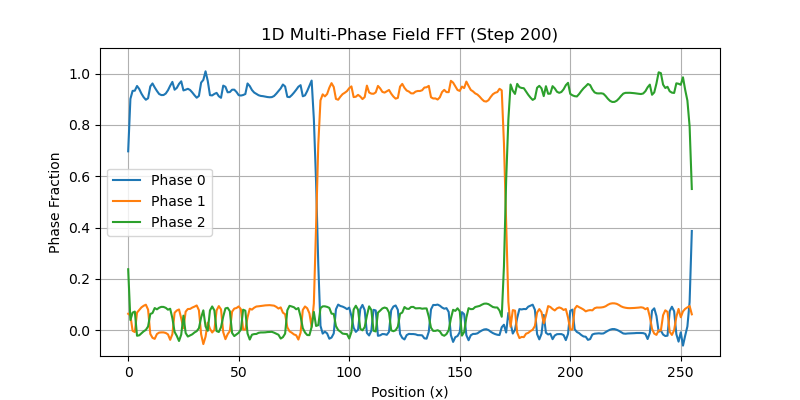
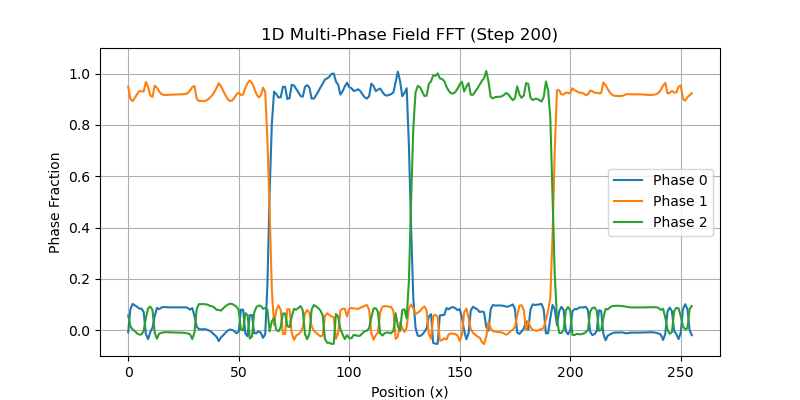
Fix 1D PBC and match 3D rendering colors exactly with 2D GUI

Changed region(s): [[0.1562, 0.18, 0.9062, 0.87], [0.125, 0.42, 0.2812, 0.6]]

diff --git a/3D_test_PF_FFT.py b/3D_test_PF_FFT.py
@@ -22,27 +22,26 @@ def init_uniform_noise_phi_3d(N, N_phases, fluctuation):
 def render_pyvista_step(phi_np, step, output_dir):
     N_phases, Nx, Ny, Nz = phi_np.shape
 
-    colors = np.array([
-        [0.1, 0.1, 0.1],  
-        [0.8, 0.2, 0.2],  
-        [0.2, 0.8, 0.2],  
-        [0.2, 0.2, 0.8],  
-        [0.8, 0.8, 0.2],
-        [0.2, 0.8, 0.8],
-        [0.8, 0.2, 0.8],
-        [1.0, 0.5, 0.0],
-        [0.5, 0.0, 1.0],
-        [0.0, 0.5, 1.0],
-    ])
+    color_palette = [
+        [1.0, 0.0, 0.0], 
+        [0.0, 1.0, 0.0], 
+        [0.0, 0.0, 1.0], 
+        [1.0, 1.0, 0.0], 
+        [0.0, 1.0, 1.0], 
+        [1.0, 0.0, 1.0]  
+    ]
+    colors = np.array([color_palette[i % len(color_palette)] for i in range(N_phases)])
 
     rgb_vol = np.zeros((Nx, Ny, Nz, 3), dtype=np.float32)
     for p in range(N_phases):
         for c in range(3):
-            rgb_vol[:, :, :, c] += phi_np[p, :, :, :] * colors[p % len(colors)][c]
+            rgb_vol[:, :, :, c] += phi_np[p, :, :, :] * colors[p][c]
     rgb_vol = np.clip(rgb_vol, 0, 1)
 
     grains_vol = np.argmax(phi_np, axis=0).astype(np.float32)
+    
     bounds_vol = np.max(phi_np, axis=0) - np.min(phi_np, axis=0)
+    bounds_rgb = np.stack([bounds_vol, bounds_vol, bounds_vol], axis=-1)
 
     grid = pv.ImageData()
     grid.dimensions = (Nx, Ny, Nz)
@@ -50,7 +49,7 @@ def render_pyvista_step(phi_np, step, output_dir):
 
     grid.point_data["RGB"] = (rgb_vol.reshape(-1, 3, order='F') * 255).astype(np.uint8)
     grid.point_data["Grains"] = grains_vol.flatten(order='F')
-    grid.point_data["Boundaries"] = bounds_vol.flatten(order='F')
+    grid.point_data["BoundariesRGB"] = (bounds_rgb.reshape(-1, 3, order='F') * 255).astype(np.uint8)
 
     slices = grid.slice_orthogonal(x=Nx//2, y=Ny//2, z=Nz//2)
     outline = grid.outline()
@@ -68,13 +67,13 @@ def render_pyvista_step(phi_np, step, output_dir):
 
     p.subplot(0, 1)
     p.add_mesh(outline, color="black")
-    p.add_mesh(slices, scalars="Grains", cmap="jet", show_scalar_bar=False)
+    p.add_mesh(slices, scalars="Grains", cmap="jet", clim=[0, N_phases-1], show_scalar_bar=False)
     p.add_text(f"2. Grains (Step {step})", font_size=14, position='upper_edge')
     p.camera_position = 'iso'
 
     p.subplot(0, 2)
     p.add_mesh(outline, color="black")
-    p.add_mesh(slices, scalars="Boundaries", cmap="bone_r", show_scalar_bar=False)
+    p.add_mesh(slices, scalars="BoundariesRGB", rgb=True, show_scalar_bar=False)
     p.add_text(f"3. Boundaries (Step {step})", font_size=14, position='upper_edge')
     p.camera_position = 'iso'
 
@@ -112,8 +111,8 @@ def main():
     output_dir = "output_3d"
     os.makedirs(output_dir, exist_ok=True)
 
-    n_steps = 200
-    save_freq = 50
+    n_steps = 1000
+    save_freq = 200
 
     print("Starting 3D MPF FFT Simulation...")
 

diff --git a/1D_test_PF_FFT.py b/1D_test_PF_FFT.py
@@ -21,19 +21,17 @@ def init_1d_phases(N, N_phases, mode="tanh", eta=2.0):
                 phi[2, i] = 1.0
     elif mode == "tanh":
         x = np.arange(N)
-        x1 = N / 3.0
-        x2 = 2.0 * N / 3.0
         
-        # Phase 0 occupies the left part (x < x1)
-        phi[0, :] = 0.5 * (1.0 - np.tanh((x - x1) / (np.sqrt(2) * eta)))
+        def tanh_box(x_arr, center, width, interface_eta):
+            left = center - width / 2.0
+            right = center + width / 2.0
+            return 0.5 * (np.tanh((x_arr - left) / (np.sqrt(2) * interface_eta)) - 
+                          np.tanh((x_arr - right) / (np.sqrt(2) * interface_eta)))
         
-        # Phase 2 occupies the right part (x > x2)
-        phi[2, :] = 0.5 * (1.0 + np.tanh((x - x2) / (np.sqrt(2) * eta)))
-        
-        # Phase 1 is in the middle
+        phi[0, :] = tanh_box(x, 3.0 * N / 8.0, N / 4.0, eta)
+        phi[2, :] = tanh_box(x, 5.0 * N / 8.0, N / 4.0, eta)
         phi[1, :] = 1.0 - phi[0, :] - phi[2, :]
         
-        # Ensure values stay exactly in [0, 1] bounds and sum to 1
         phi = np.clip(phi, 0.0, 1.0)
         sum_phi = np.sum(phi, axis=0)
         phi /= (sum_phi + 1e-10)
